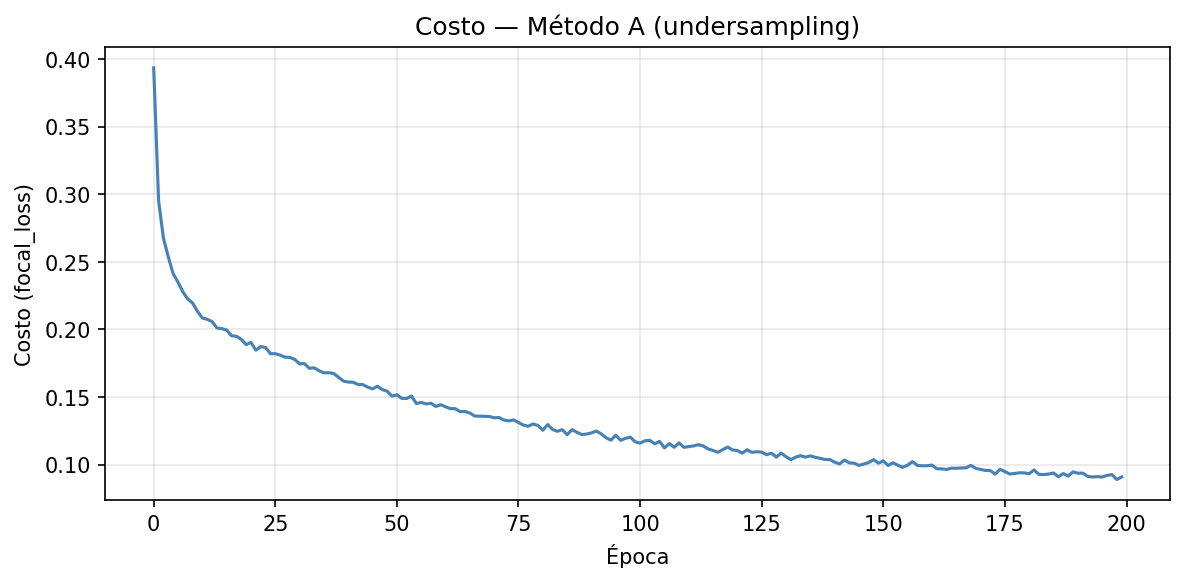
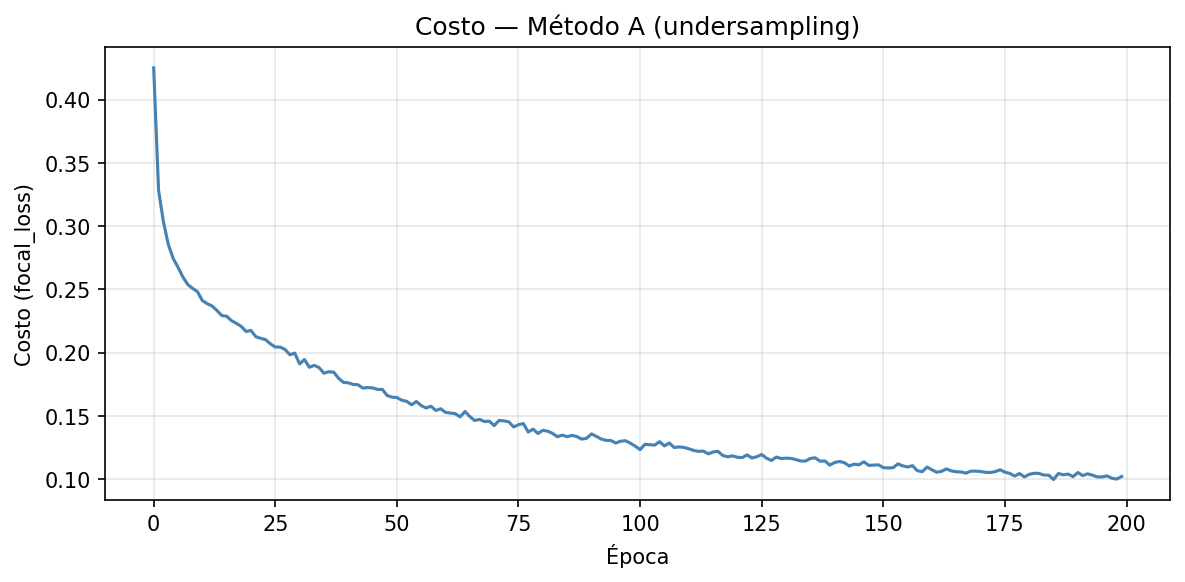
v0.3

diff --git a/templates/simulator.html b/templates/simulator.html
@@ -231,10 +231,51 @@
                                     <option value="NO">No (Sin licencia)</option>
                                 </select>
                             </div>
+
+                            <div class="form-group">
+                                <label for="tipo_persona" style="font-weight: 600; color: #374151; display: block; margin-bottom: 6px;">Tipo de Persona Evaluada</label>
+                                <select id="tipo_persona" class="sim-select" name="TIPO PERSONA">
+                                    <option value="CONDUCTOR">Conductor</option>
+                                    <option value="PASAJERO">Pasajero</option>
+                                    <option value="PEATÓN">Peatón</option>
+                                    <option value="CONDUCTOR FUGADO">Conductor Fugado</option>
+                                    <option value="OCUPANTE">Ocupante</option>
+                                </select>
+                            </div>
+
+                            <div class="form-group">
+                                <label for="departamento" style="font-weight: 600; color: #374151; display: block; margin-bottom: 6px;">Departamento</label>
+                                <select id="departamento" class="sim-select" name="DEPARTAMENTO">
+                                    <option value="LIMA">Lima</option>
+                                    <option value="LA LIBERTAD">La Libertad</option>
+                                    <option value="CUSCO">Cusco</option>
+                                    <option value="AREQUIPA">Arequipa</option>
+                                    <option value="PUNO">Puno</option>
+                                    <option value="CAJAMARCA">Cajamarca</option>
+                                    <option value="ICA">Ica</option>
+                                    <option value="PIURA">Piura</option>
+                                    <option value="JUNIN">Junín</option>
+                                    <option value="ANCASH">Ancash</option>
+                                    <option value="LAMBAYEQUE">Lambayeque</option>
+                                    <option value="AYACUCHO">Ayacucho</option>
+                                    <option value="HUANCAVELICA">Huancavelica</option>
+                                    <option value="SAN MARTIN">San Martín</option>
+                                    <option value="TACNA">Tacna</option>
+                                    <option value="APURIMAC">Apurímac</option>
+                                    <option value="HUANUCO">Huánuco</option>
+                                    <option value="TUMBES">Tumbes</option>
+                                    <option value="CALLAO">Callao</option>
+                                    <option value="AMAZONAS">Amazonas</option>
+                                    <option value="PASCO">Pasco</option>
+                                    <option value="LORETO">Loreto</option>
+                                    <option value="MADRE DE DIOS">Madre de Dios</option>
+                                    <option value="MOQUEGUA">Moquegua</option>
+                                    <option value="UCAYALI">Ucayali</option>
+                                </select>
+                            </div>
                         </div>
 
                         <!-- VALORES POR DEFECTO PARA EL RESTO DE VARIABLES EXIGIDAS POR EL MODELO -->
-                        <input type="hidden" name="TIPO PERSONA" value="CONDUCTOR">
                         <input type="hidden" name="SEXO" value="MASCULINO">
                         <input type="hidden" name="ESTADO LICENCIA" value="VIGENTE">
                         <input type="hidden" name="CLASE_LICENCIA" value="A I">
@@ -242,7 +283,6 @@
                         <input type="hidden" name="¿SE SOMETIÓ A DOSAJE ETÍLICO CUANTITATIVO?" value="NO">
                         <input type="hidden" name="CAUSA ESPECIFICA" value="NO CUENTA CON CAUSA ESPECIFICA">
                         <input type="hidden" name="RED VIAL" value="NACIONAL">
-                        <input type="hidden" name="DEPARTAMENTO" value="LIMA">
                         <input type="hidden" name="MES" value="ENERO">
                         <input type="hidden" name="DIA" value="VIERNES">
                     </form>

diff --git a/app.py b/app.py
@@ -109,7 +109,7 @@ def cargar_modelo():
         # Entrenar
         model.train(
             X_train, y_train,
-            epochs=100,
+            epochs=200,
             alpha=0.01,
             batch_size=32,
             momentum=0.80,